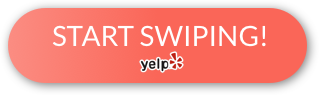
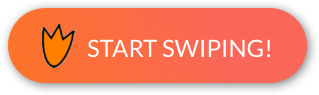
updated start swiping button, added background image to home screen

diff --git a/src/components/Home.js b/src/components/Home.js
@@ -6,10 +6,13 @@ import {
     Button,
     TouchableOpacity,
     Image,
+    Dimensions,
 } from 'react-native';
 import Header from './Header';
 import GoogleSignIn from './GoogleSignIn';
 import FacebookSignIn from './FacebookSignIn';
+
+const { width, height } = Dimensions.get('window');
 
 export default class Home extends Component {
     static navigationOptions = {
@@ -18,8 +21,9 @@ export default class Home extends Component {
     render() {
         return (
             <View style={styles.container}>
-                <TouchableOpacity style={styles.swiper} onPress={() => logIn()} onPress={() => this.props.navigation.navigate('Swiper')} >
-                    <Image style={styles.swiperButton} source={require('../assets/images/start-swiping.png')} />
+                <Image style={styles.homeBackground} source={require('../assets/images/home-background.png')} />
+                <TouchableOpacity style={styles.swiperButton} onPress={() => logIn()} onPress={() => this.props.navigation.navigate('Swiper')} >
+                    <Image style={styles.swiperButtonImage} source={require('../assets/images/start-swiping.png')} />
                 </TouchableOpacity>
                 <GoogleSignIn />
                 <FacebookSignIn />
@@ -35,7 +39,12 @@ const styles = StyleSheet.create({
         alignItems: 'center',
         marginBottom: 75,
     },
-    swiper: {
+    homeBackground: {
+        position: 'absolute',
+        width: width,
+        height: height,
+    },
+    swiperButton: {
         shadowColor: 'lightgrey',
         shadowOffset: {
             width: 0,
@@ -44,9 +53,10 @@ const styles = StyleSheet.create({
         shadowOpacity: 0.25,
         shadowRadius: 3.84,
         elevation: 5,
+        margin: 20,
     },
-    swiperButton: {
-        width: 200,
-        height: 50,
+    swiperButtonImage: {
+        width: 300,
+        height: 90,
     },
 });

diff --git a/src/components/Card.js b/src/components/Card.js
@@ -67,7 +67,7 @@ export default class Card extends Component {
                     <View>
                         <Text style={styles.restaurantTitle}>{name}</Text>
                         <Text style={styles.restaurantCategory}>{categories[0].title}</Text>
-                        <Distance />
+                        <Distance style={styles.distance} />
 
                         {/* {TODO: Location data for distance} */}
                         {/* <Text style={styles.restaurantDistance}>Restaurant Longitude: {coordinates.longitude}</Text> */}

diff --git a/src/components/CalculateDistance.js b/src/components/CalculateDistance.js
@@ -34,7 +34,7 @@ export default class Distance extends Component {
     render() {
         return (
             <View>
-                <Text style={styles.distance}>Distance: miles</Text>
+                <Text style={styles.distance}>Distance: 2.2 miles</Text>
             </View>
         );
     }
